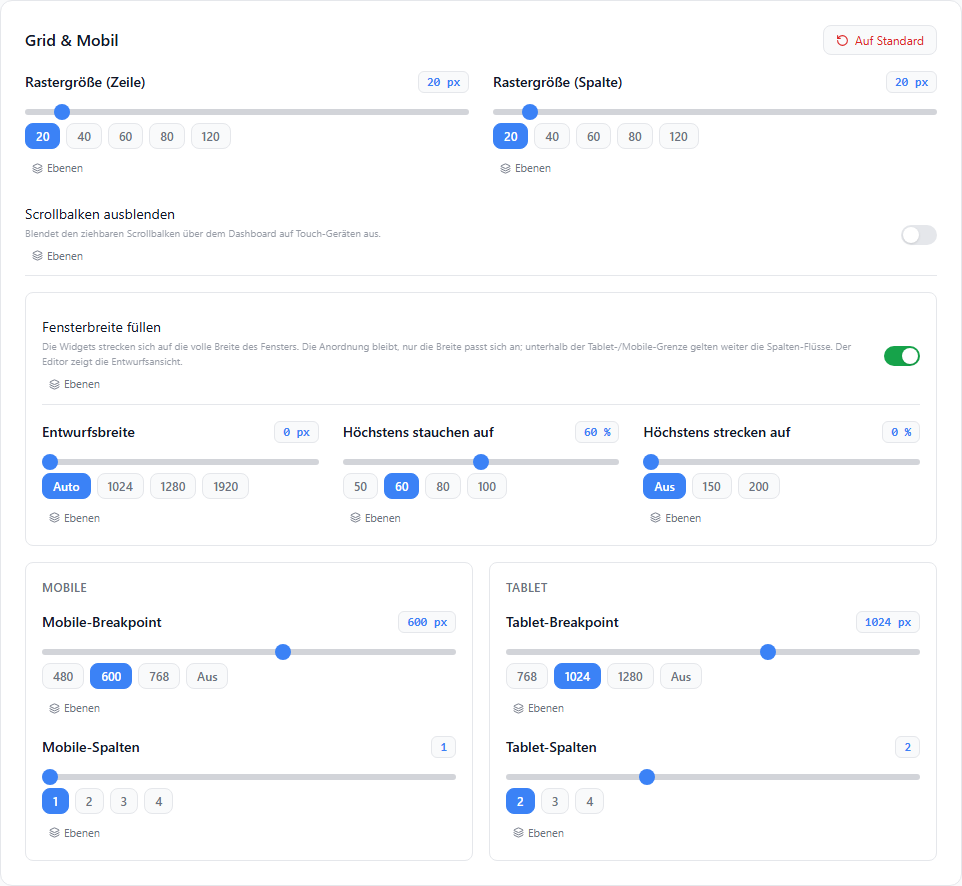
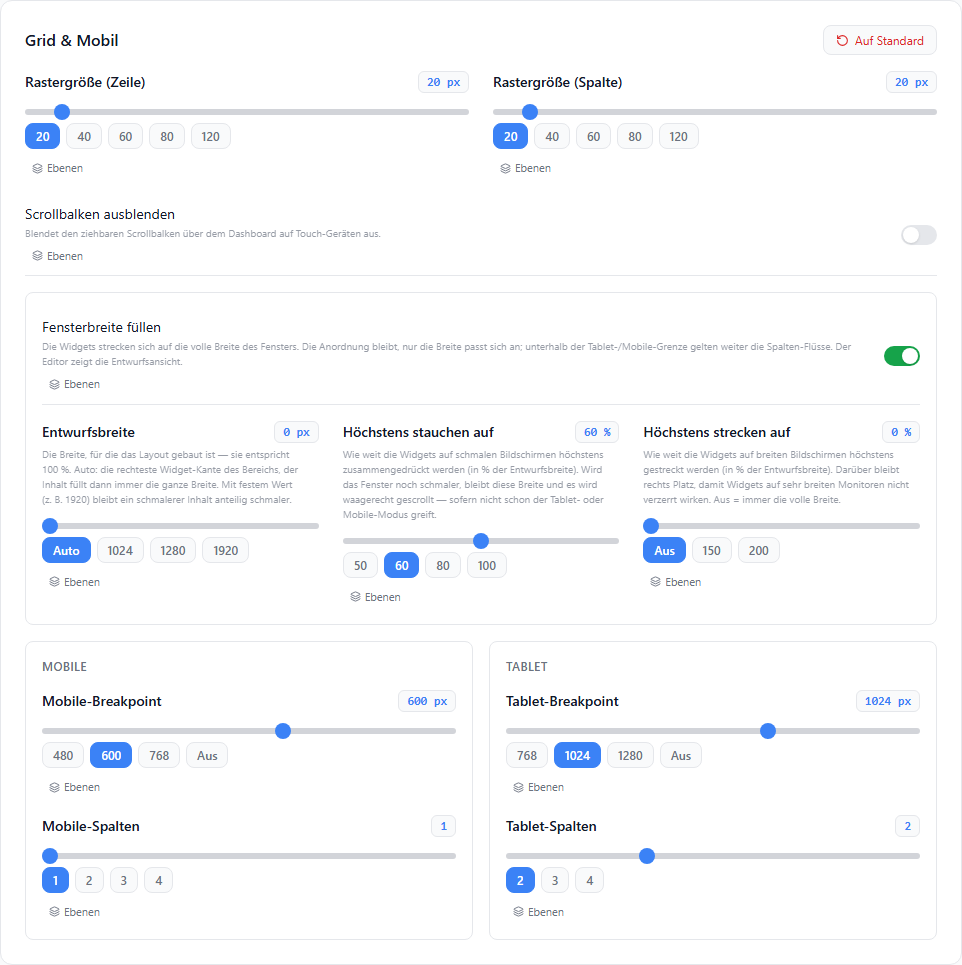
feat(admin): explain design width and scale limits of the fluid grid

diff --git a/src-vis/pages/admin/layouts/sections/GridSection.tsx b/src-vis/pages/admin/layouts/sections/GridSection.tsx
@@ -177,6 +177,7 @@ export function GridSection({ contextId }: GridSectionProps) {
                     <div className="grid grid-cols-1 md:grid-cols-3 gap-6">
                         <SliderSetting
                             label={t('settings.grid.fluidDesignWidth')}
+                            hint={t('settings.grid.fluidDesignWidthHint')}
                             value={(designW ?? 0) as number}
                             min={0}
                             max={3840}
@@ -201,6 +202,7 @@ export function GridSection({ contextId }: GridSectionProps) {
                         />
                         <SliderSetting
                             label={t('settings.grid.fluidMinScale')}
+                            hint={t('settings.grid.fluidMinScaleHint')}
                             value={Math.round(((minScale ?? 0.6) as number) * 100)}
                             min={20}
                             max={100}
@@ -225,6 +227,7 @@ export function GridSection({ contextId }: GridSectionProps) {
                         />
                         <SliderSetting
                             label={t('settings.grid.fluidMaxScale')}
+                            hint={t('settings.grid.fluidMaxScaleHint')}
                             value={Math.round(((maxScale ?? 0) as number) * 100)}
                             min={0}
                             max={300}

diff --git a/src-vis/i18n/de.ts b/src-vis/i18n/de.ts
@@ -311,6 +311,12 @@ export const de = {
     'settings.grid.fluidAuto': 'Auto',
     'settings.grid.fluidMinScale': 'Höchstens stauchen auf',
     'settings.grid.fluidMaxScale': 'Höchstens strecken auf',
+    'settings.grid.fluidDesignWidthHint':
+        'Die Breite, für die das Layout gebaut ist — sie entspricht 100 %. Auto: die rechteste Widget-Kante des Bereichs, der Inhalt füllt dann immer die ganze Breite. Mit festem Wert (z. B. 1920) bleibt ein schmalerer Inhalt anteilig schmaler.',
+    'settings.grid.fluidMinScaleHint':
+        'Wie weit die Widgets auf schmalen Bildschirmen höchstens zusammengedrückt werden (in % der Entwurfsbreite). Wird das Fenster noch schmaler, bleibt diese Breite und es wird waagerecht gescrollt — sofern nicht schon der Tablet- oder Mobile-Modus greift.',
+    'settings.grid.fluidMaxScaleHint':
+        'Wie weit die Widgets auf breiten Bildschirmen höchstens gestreckt werden (in % der Entwurfsbreite). Darüber bleibt rechts Platz, damit Widgets auf sehr breiten Monitoren nicht verzerrt wirken. Aus = immer die volle Breite.',
     'settings.grid.hideScrollbarHint': 'Blendet den ziehbaren Scrollbalken über dem Dashboard auf Touch-Geräten aus.',
     'design.reset.toDefaults': 'Auf Standard',
     'design.reset.hint': 'Setzt diese Einstellungen auf die Auslieferungswerte zurück.',

diff --git a/src-vis/i18n/en.ts b/src-vis/i18n/en.ts
@@ -310,6 +310,12 @@ export const en: Record<TranslationKey, string> = {
     'settings.grid.fluidAuto': 'Auto',
     'settings.grid.fluidMinScale': 'Squeeze down to at most',
     'settings.grid.fluidMaxScale': 'Stretch up to at most',
+    'settings.grid.fluidDesignWidthHint':
+        'The width the layout is built for — this is 100 %. Auto: the rightmost widget edge of the section, so the content always fills the whole width. With a fixed value (e.g. 1920) narrower content stays proportionally narrower.',
+    'settings.grid.fluidMinScaleHint':
+        'How far widgets are squeezed at most on narrow screens (in % of the design width). If the window gets narrower still, this width is kept and the dashboard scrolls horizontally — unless the tablet or mobile mode already applies.',
+    'settings.grid.fluidMaxScaleHint':
+        'How far widgets are stretched at most on wide screens (in % of the design width). Beyond that the right side stays empty, so widgets do not look distorted on very wide monitors. Off = always the full width.',
     'settings.grid.hideScrollbarHint': 'Hides the draggable scroll bar over the dashboard on touch devices.',
     'design.reset.toDefaults': 'Reset',
     'design.reset.hint': 'Restores these settings to their shipped defaults.',

diff --git a/src-vis/pages/admin/layouts/shared/SliderSetting.tsx b/src-vis/pages/admin/layouts/shared/SliderSetting.tsx
@@ -15,6 +15,8 @@ interface SliderSettingProps {
     onClearOverride?: () => void;
     /** Override state line (usually an <OverrideState>); replaces the built-in "set here" affordance. */
     info?: React.ReactNode;
+    /** One or two lines under the label explaining what the value means. */
+    hint?: string;
 }
 
 export function SliderSetting({
@@ -29,6 +31,7 @@ export function SliderSetting({
     isOverridden,
     onClearOverride,
     info,
+    hint,
 }: SliderSettingProps) {
     const t = useT();
     const accent = isOverridden ? OVERRIDE_COLOR : 'var(--accent)';
@@ -61,6 +64,11 @@ export function SliderSetting({
                     {unit}
                 </span>
             </div>
+            {hint && (
+                <p className="text-[10px] mb-1" style={{ color: 'var(--text-secondary)', opacity: 0.7 }}>
+                    {hint}
+                </p>
+            )}
             <input
                 type="range"
                 min={min}
